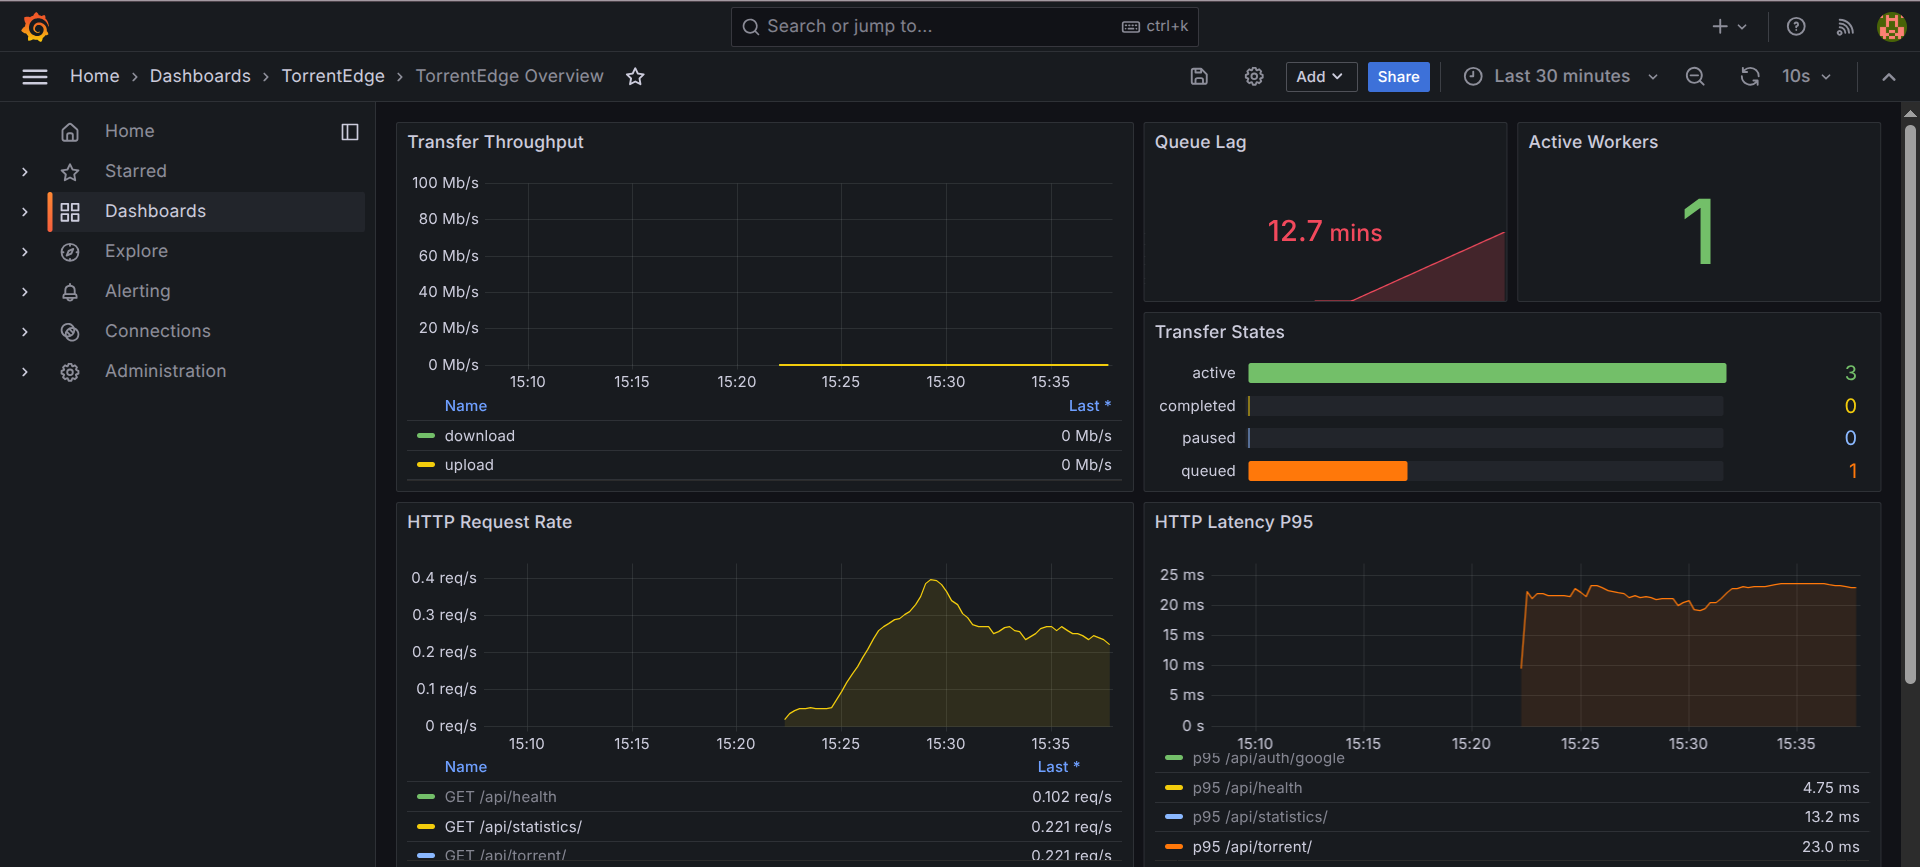
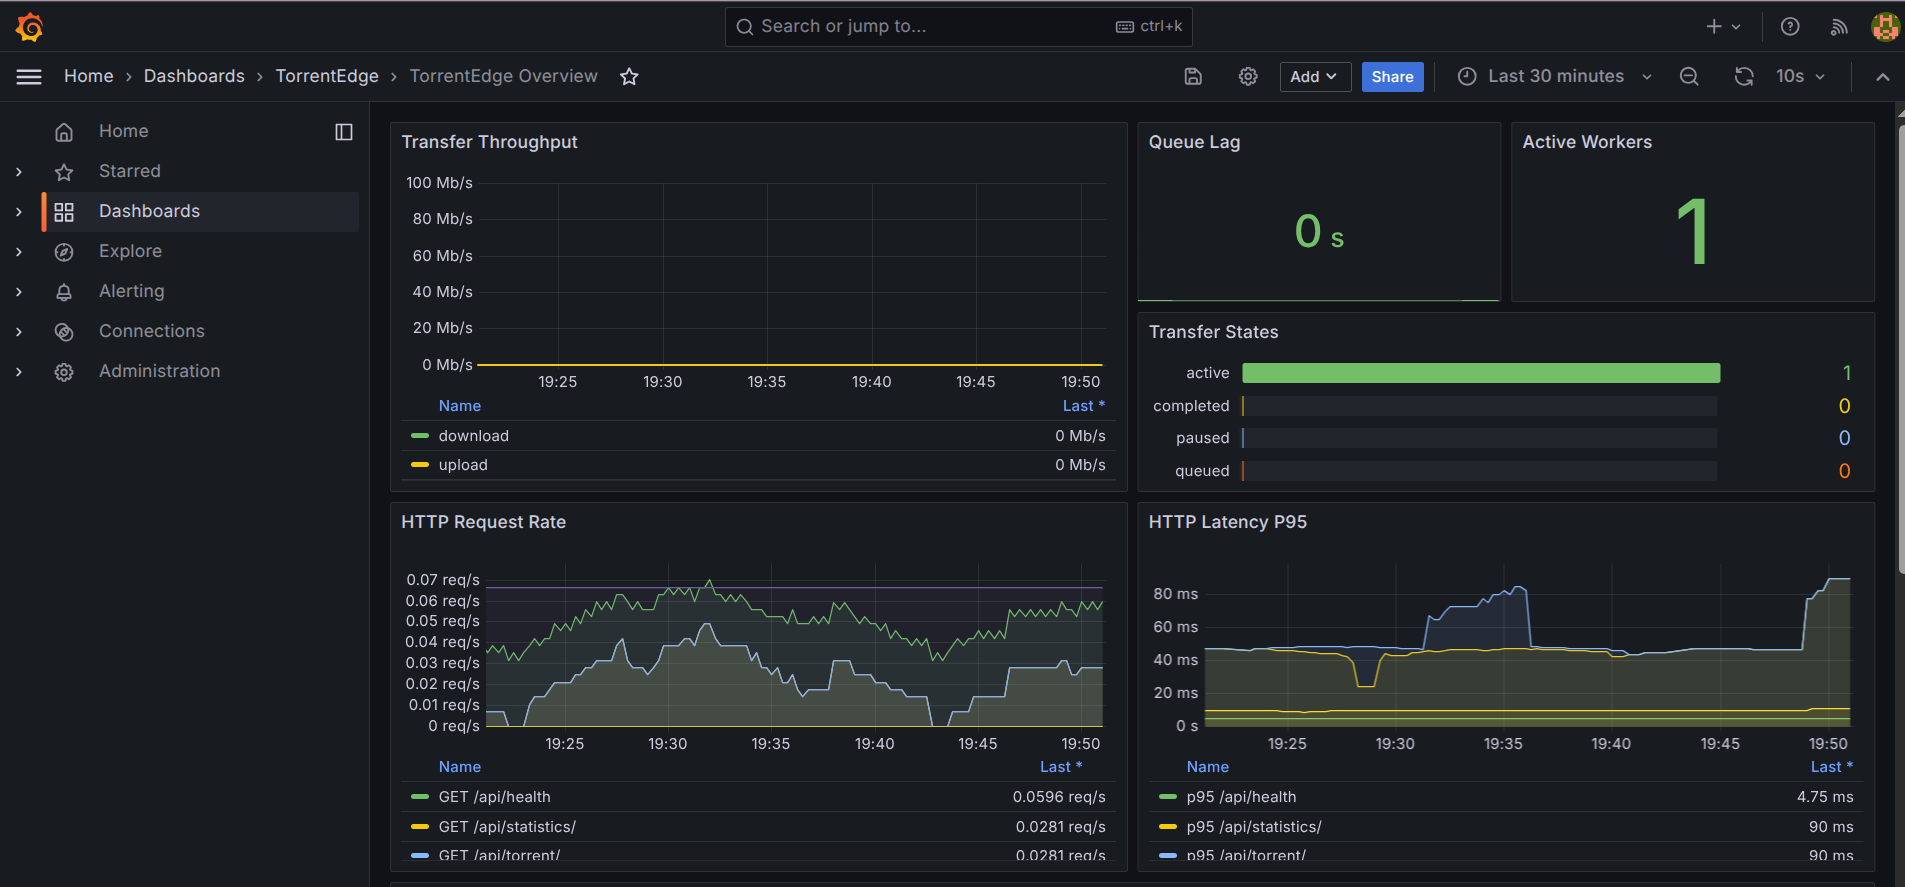
feat: add image asset and update README for project structure

diff --git a/README.md b/README.md
@@ -164,6 +164,8 @@ This brings up backend + MongoDB + Kafka + Zookeeper + Nginx using [docker-compo
 npm test
 ```
 
+![alt text](image-1.png)
+
 ## 12) Project structure (brief)
 
 - [src/server](src/server): Express server, auth, REST routes, controllers.